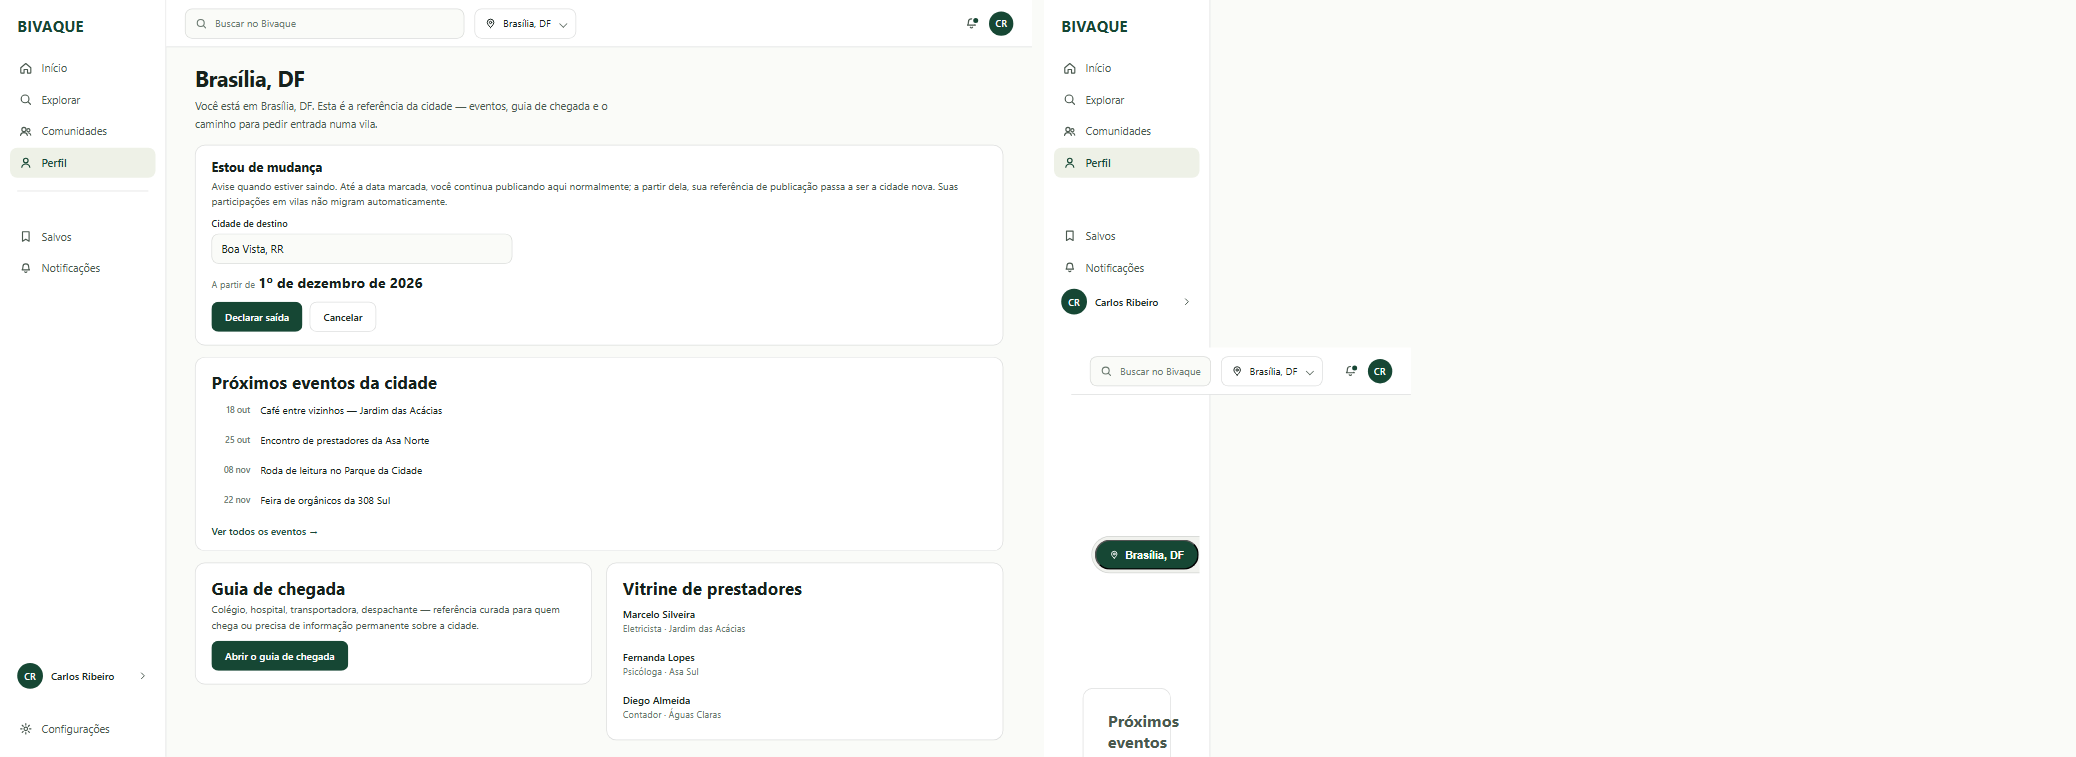
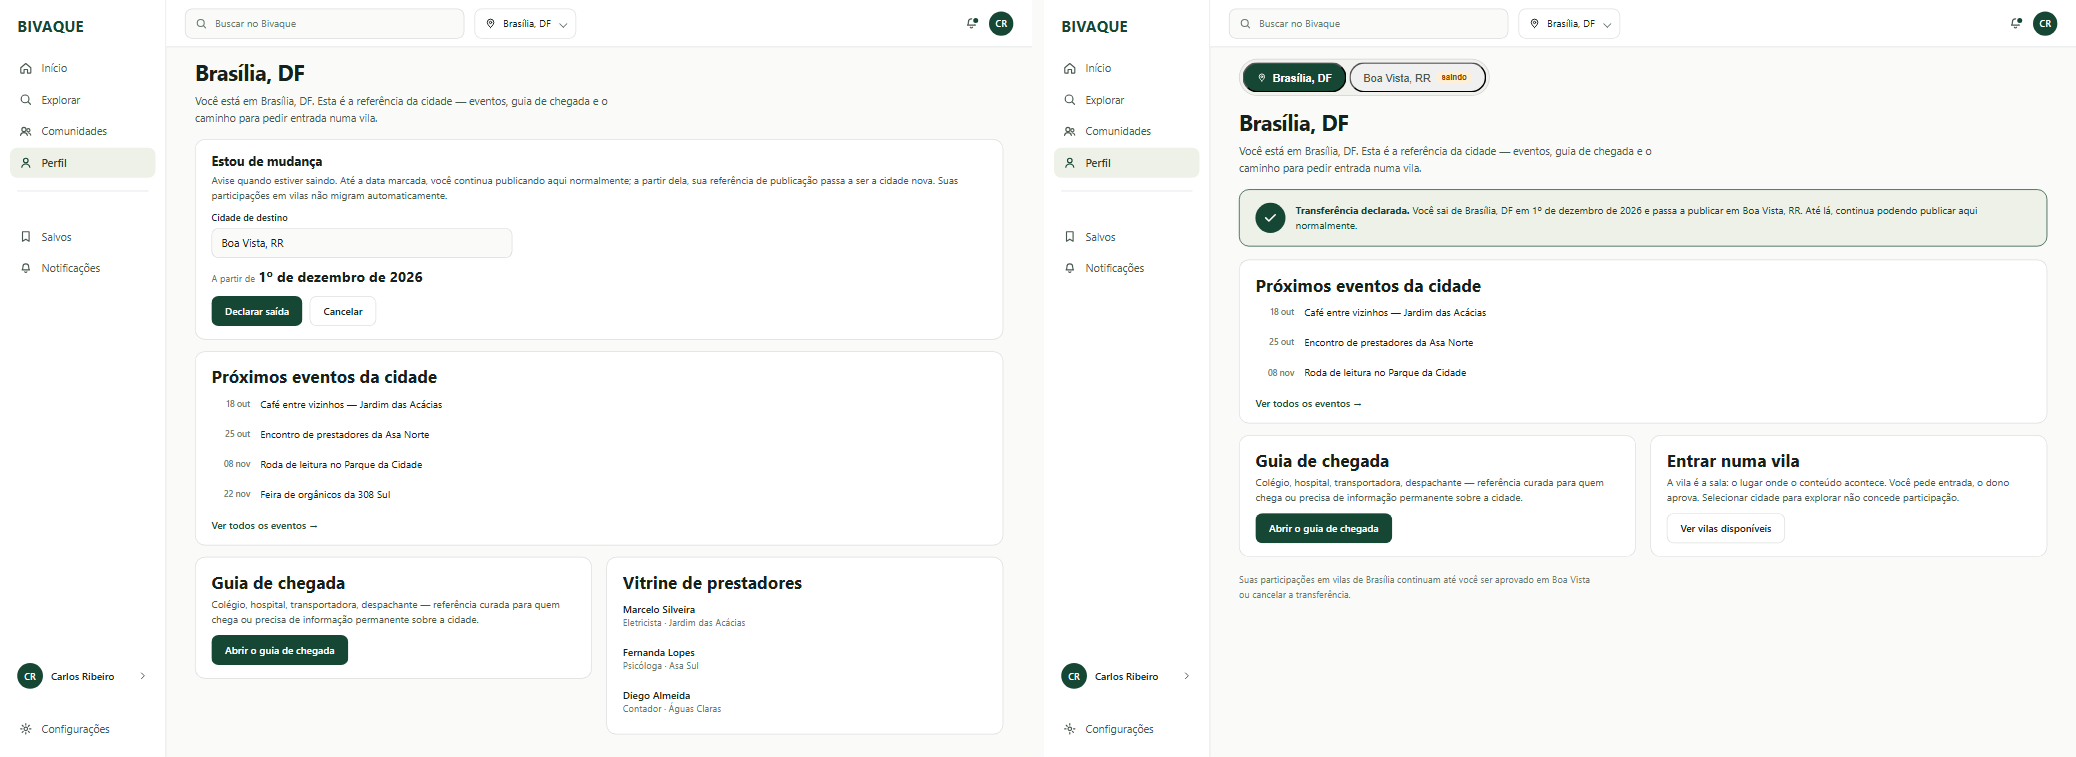
fix(visual): marcacao malformada aninhava o conteudo do painel 2 da 82
O SVG do ultimo item da navegacao terminava em `Msvg` em vez de fechar a aspa e a tag. O svg
nunca fechava, o ancora engolia o resto da tela e todo o conteudo do painel 2 passava a viver
dentro do link Configuracoes. O resultado e o que se via: sidebar em tamanho normal e o miolo
minusculo, empilhado abaixo dela.

A guarda media transbordo e escala, nao estrutura, entao deixou passar. Agora ela tambem exige
que a casca tenha dois filhos: uma casca com um filho so e o sintoma de marcacao malformada.

As onze pranchas passam.

diff --git a/docs/design/visual-guide-2026-09-06/src/82-web-localidade.html b/docs/design/visual-guide-2026-09-06/src/82-web-localidade.html
@@ -240,7 +240,7 @@
             <svg width="16" height="16" viewBox="0 0 20 20" fill="none" stroke="var(--ink700)" stroke-width="1.7" stroke-linecap="round" stroke-linejoin="round"><path d="m8 5 5 5-5 5"/></svg>
           </div>
           <nav class="nav">
-            <a href="#"><svg width="20" height="20" viewBox="0 0 20 20" fill="none" stroke="currentColor" stroke-width="1.6" stroke-linecap="round" stroke-linejoin="round"><circle cx="10" cy="10" r="2.5"/><path d="M10 2.8v2M10 15.2v2M2.8 10h2M15.2 10h2M5 5l1.4 1.4M13.6 13.6 15 15Msvg>Configurações</a>
+            <a href="#"><svg width="20" height="20" viewBox="0 0 20 20" fill="none" stroke="currentColor" stroke-width="1.6" stroke-linecap="round" stroke-linejoin="round"><circle cx="10" cy="10" r="2.5"/><path d="M10 2.8v2M10 15.2v2M2.8 10h2M15.2 10h2M5 5l1.4 1.4M13.6 13.6 15 15M"/></svg>Configurações</a>
           </nav>
         </aside>
 
